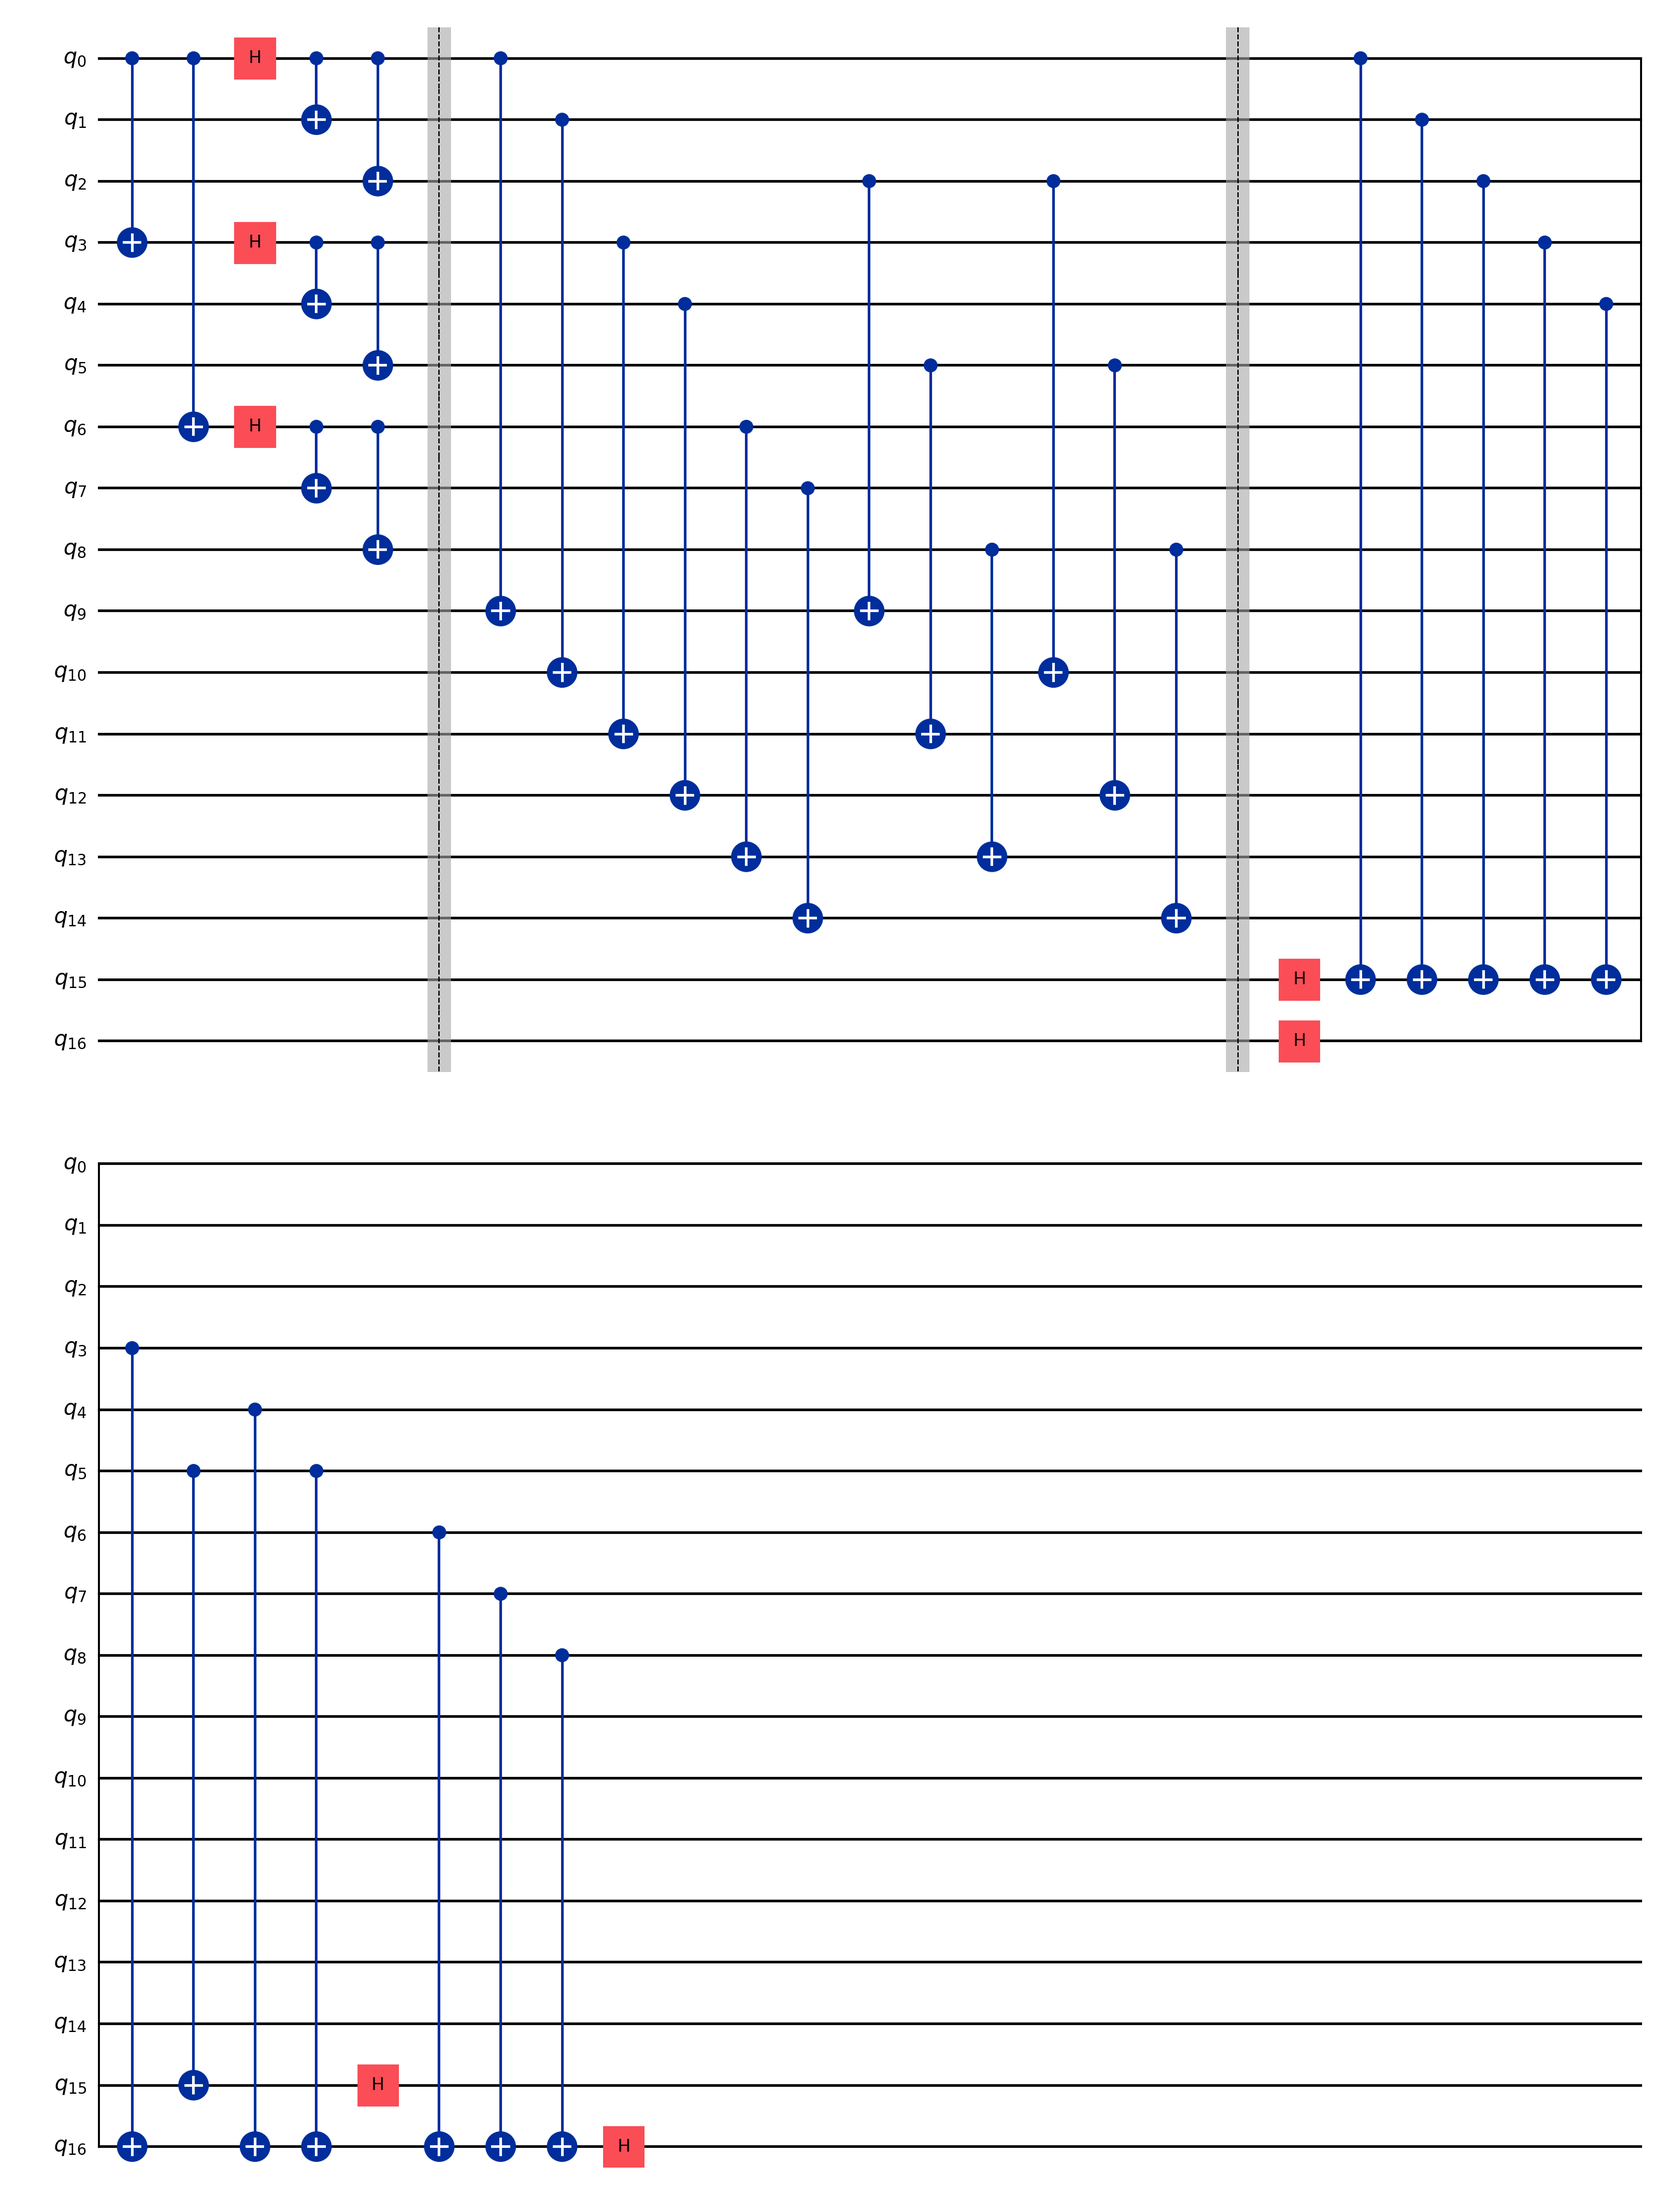
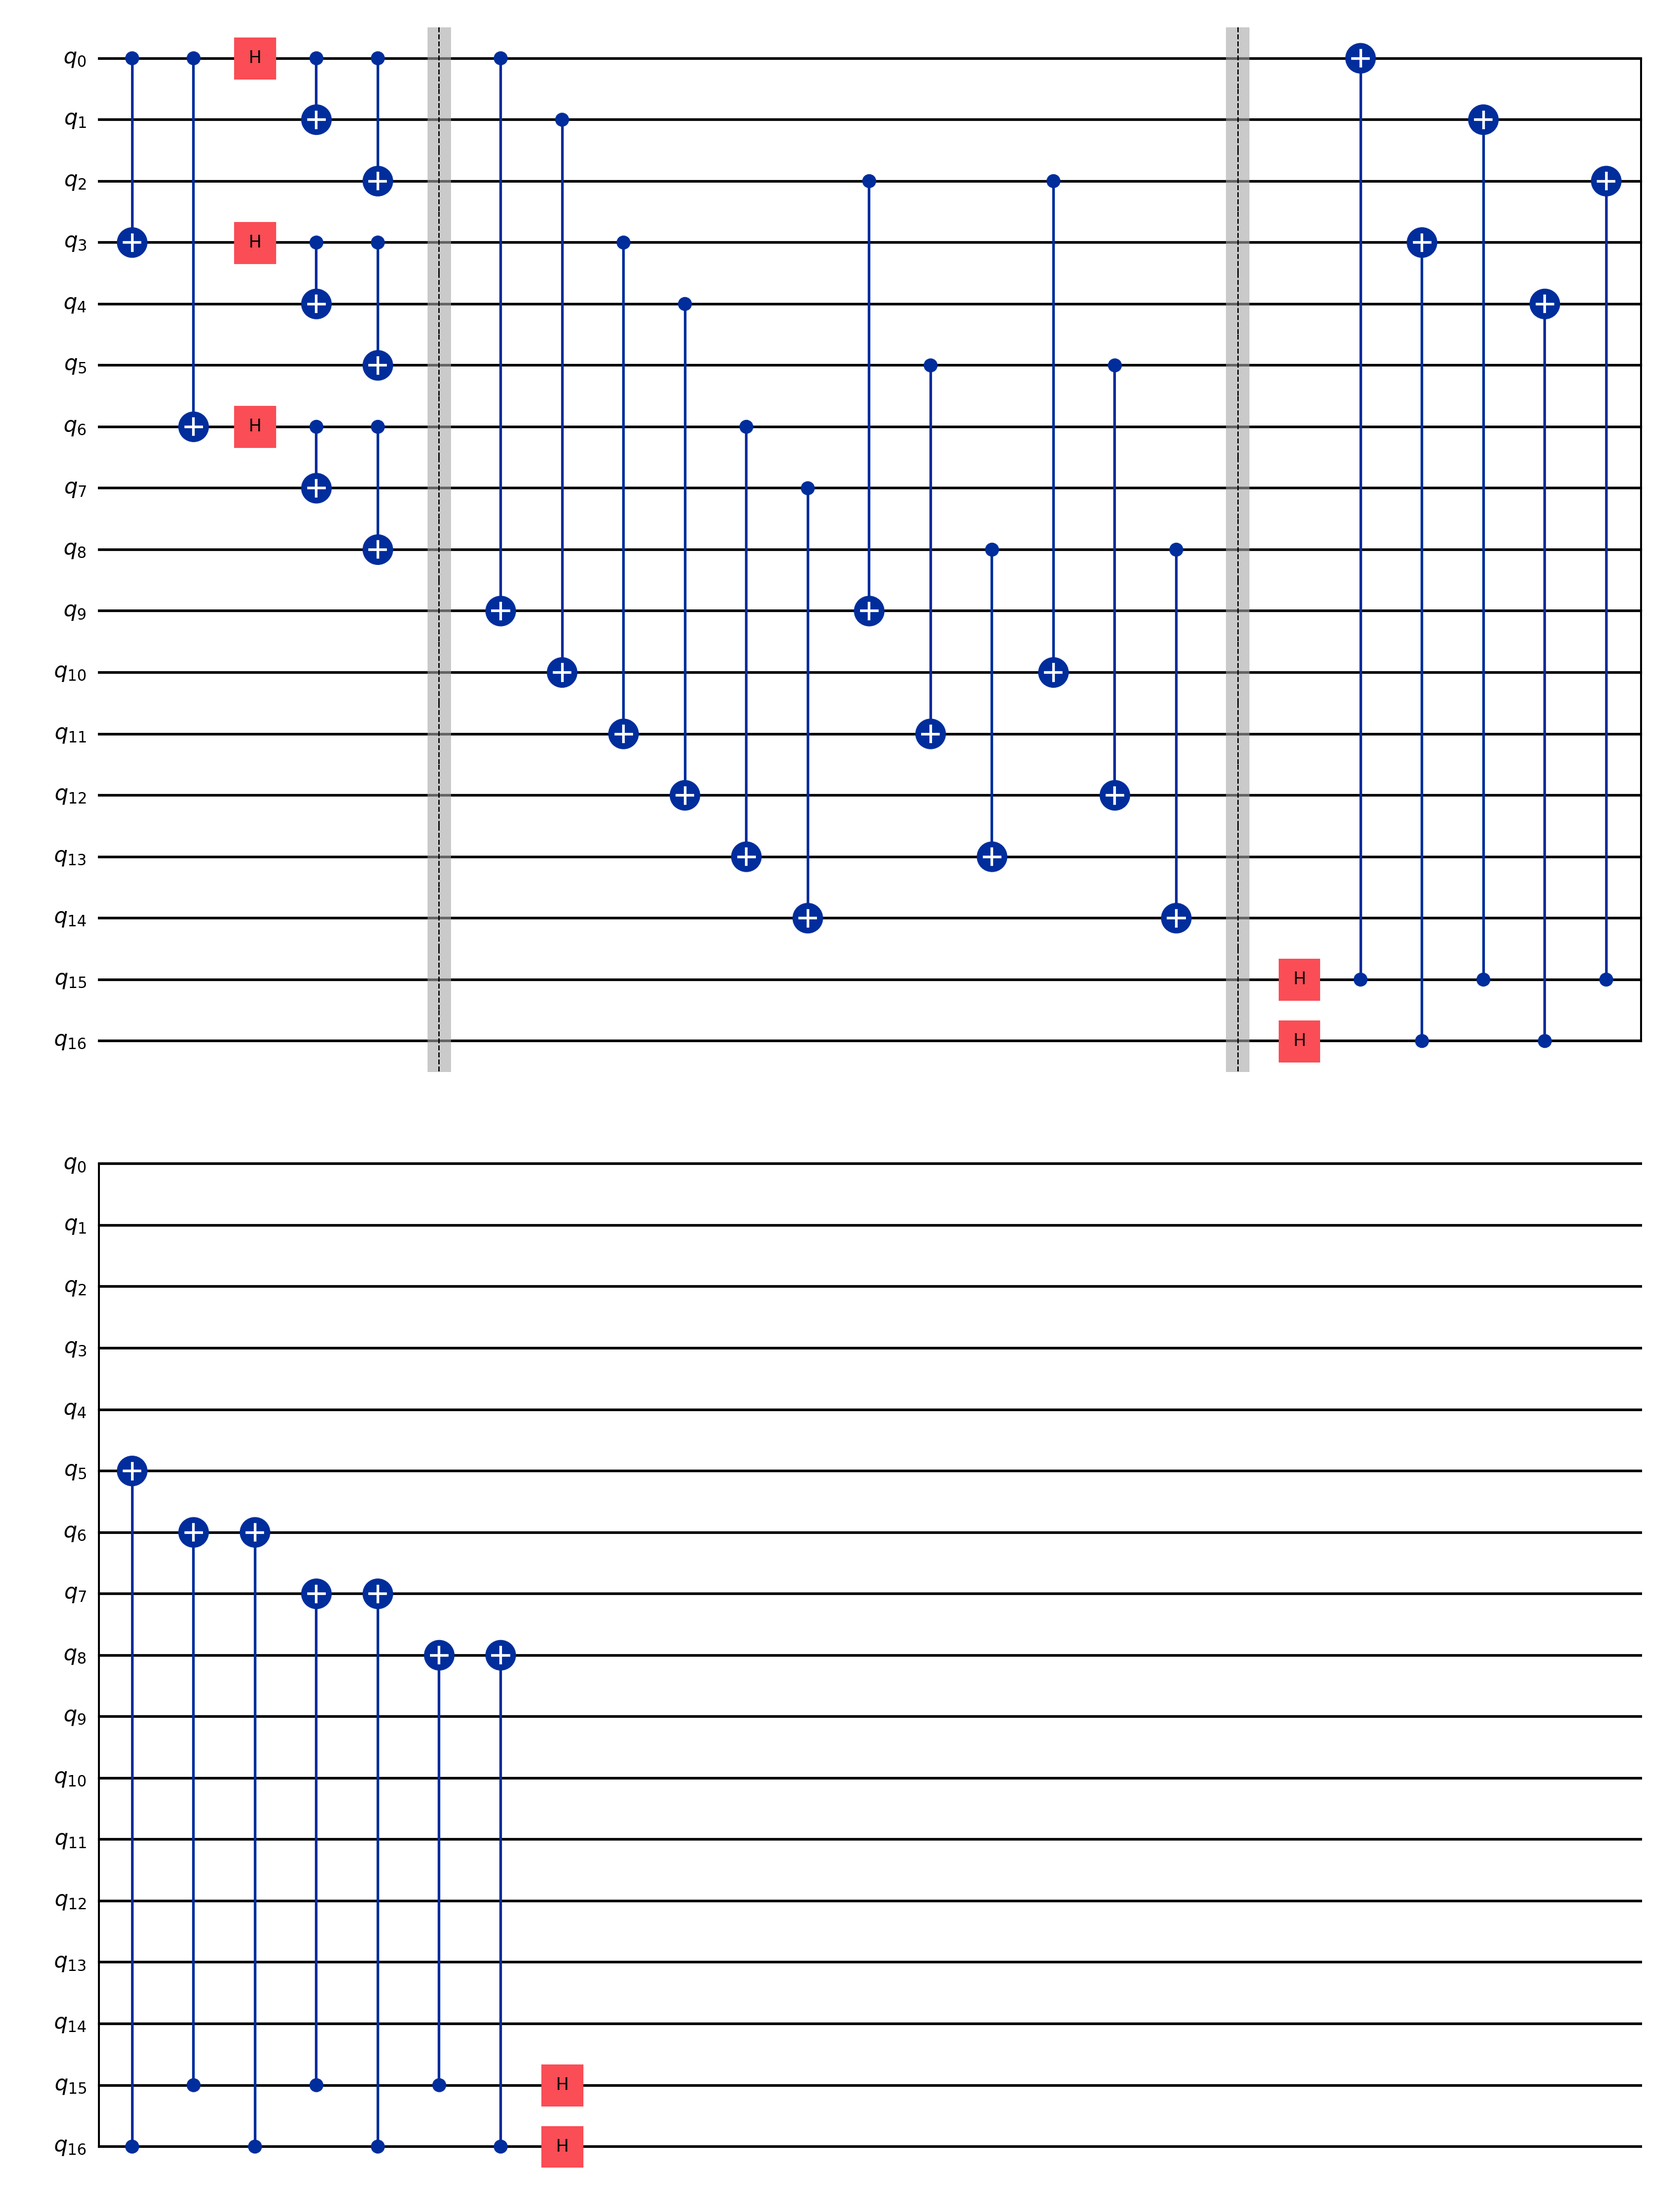
Generate images of Shor's code

diff --git a/scripts/gen_imgs.py b/scripts/gen_imgs.py
@@ -4,6 +4,8 @@ from qiskit import ClassicalRegister, QuantumCircuit, QuantumRegister
 
 from qecc import get_three_qubit_phase_flip_encoding_circuit
 from qecc.nine_qubit_shors_code import (
+    apply_nine_qubit_shors_code_bit_flip_correction,
+    apply_nine_qubit_shors_code_phase_flip_correction,
     get_nine_qubit_shors_code_bit_flip_syndrome_extraction_circuit,
     get_nine_qubit_shors_code_encoding_circuit,
     get_nine_qubit_shors_code_phase_flip_syndrome_extraction_circuit,
@@ -21,7 +23,7 @@ def draw_circuit(circuit: QuantumCircuit, file_path: Path) -> None:
 def three_qubit_bit_flip() -> None:
     out_dir = imgs_dir / "three_qubit_bit_flip"
     # Encoding
-    draw_circuit(get_three_qubit_bit_flip_encoding_decoding_circuit(), out_dir / "encoding_decoding.png")
+    draw_circuit(get_three_qubit_bit_flip_encoding_decoding_circuit(), out_dir / "encoding.png")
 
     # Syndrome extraction
     qc = QuantumCircuit(5)
@@ -87,6 +89,31 @@ def nine_qubit_shors_code() -> None:
         inplace=True,
     )
     draw_circuit(qc, out_dir / "syndrome_extraction.png")
+
+    # Error correction
+    qc = QuantumCircuit(QuantumRegister(9 + 6 + 2), ClassicalRegister(6), ClassicalRegister(2))
+    qc.compose(
+        get_nine_qubit_shors_code_encoding_circuit(),
+        qubits=qc.qubits[:9],
+        inplace=True,
+    )
+    qc.barrier()
+    qc.compose(
+        get_nine_qubit_shors_code_bit_flip_syndrome_extraction_circuit(),
+        qubits=qc.qubits[:15],
+        inplace=True,
+    )
+    qc.barrier()
+    qc.compose(
+        get_nine_qubit_shors_code_phase_flip_syndrome_extraction_circuit(),
+        qubits=qc.qubits[:9] + qc.qubits[15:17],
+        inplace=True,
+    )
+    qc.barrier()
+    apply_nine_qubit_shors_code_bit_flip_correction(qc)
+    qc.barrier()
+    apply_nine_qubit_shors_code_phase_flip_correction(qc)
+    draw_circuit(qc, out_dir / "error_correction.png")
 
 
 if __name__ == "__main__":
